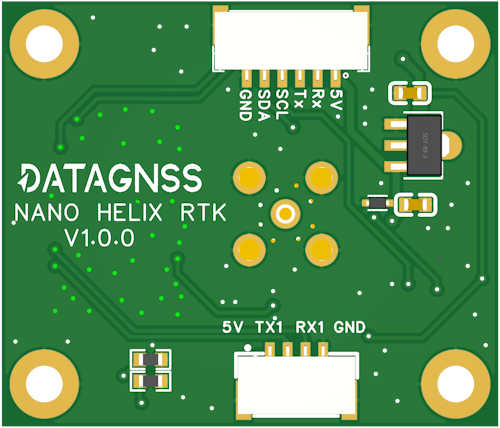
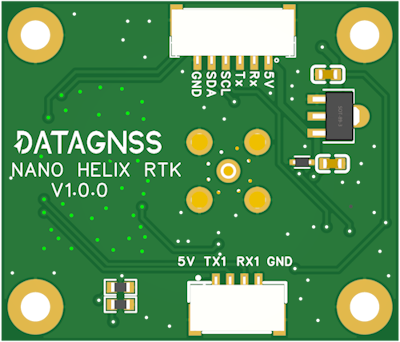
reduce the pinout picture size

diff --git a/gnss/rtk_receiver/NANO/d10p-rtk-test-kits.md b/gnss/rtk_receiver/NANO/d10p-rtk-test-kits.md
@@ -65,9 +65,13 @@ If your rover is NANO Helix RTK receiver, like the following picture:
 1. connect the radio to the receiver via the 4P connector
 2. connect the NANO Helix RTK receiver to your device via the 6P connector
 
-Note: The NANO Helix RTK receiver need be powered by your device via the 6P connector. The level of the power supply is 4.75-5.25V. It is recommended to use a power bank or other USB power supply.
+Note: The NANO Helix RTK receiver need be powered by your device via the 6P connector. The level of the power supply is 4.75-5.25V. 
 
-if you need prepare for the 6P cable for your device, you can refer to the following picture:
+It is recommended to use a power bank or other USB power supply.
+
+#### PINOUT
+
+if you need prepare for the 6P cable for your device, you can refer to the following pinout picture:
 
 ![D10P RTK Test Kits HRTK PINOUT](../../../images/helix_rtk/HELIX-RTK-PINOUT.png)
 
